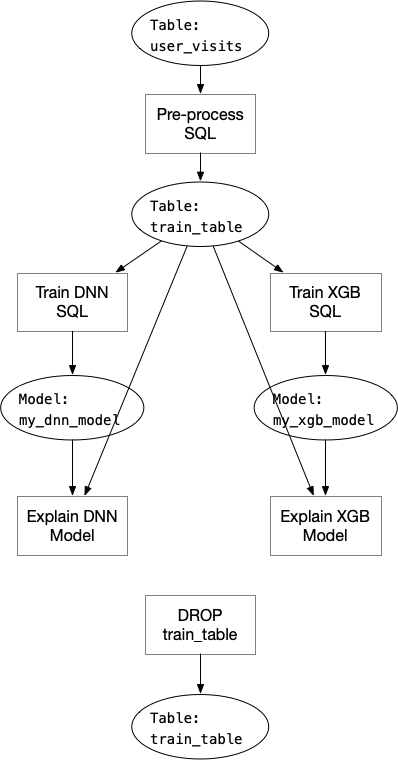
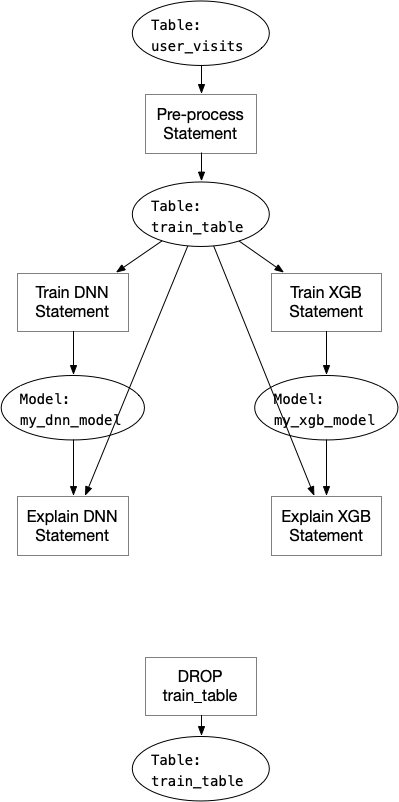
update by comment

diff --git a/doc/design/sql_program_dependency_analyze.md b/doc/design/sql_program_dependency_analyze.md
@@ -74,9 +74,31 @@ We can do this by following below steps:
 4. Execute this graph by submitting the graph as an Argo/Tekton workflow, each step is one single
    statement.
 
+## Analyze SQL Statement Input and Output Tables
+
+To analyze the input and output tables for each statement, we call the external parsers (Hive,
+Calcite, MySQL) to get the AST (https://en.wikipedia.org/wiki/Abstract_syntax_tree), for statements
+that have SQLFlow extended syntax like `TO TRAIN`, we'll analyze the standard SQL statement part in
+the external parsers and then analyze the model read and write using the SQLFlow extended parser.
+
+When going through the SQL statement, we should identify table read or write following below rules:
+
+- table reads:
+   1. `SELECT <hints> FROM <table_name>`: reads table `<table_name>`.
+   1. `SELECT <hints> FROM <table_name> <AS> <table_alias>`: reads table `<table_name>`.
+   1. `SELECT ... LEFT JOIN <table_name>`: reads `<table_name>`. Same as `INNER JOIN`, `RIGHT JOIN`,
+      `FULL JOIN`, `SELF JOIN`, `UNION`.
+- table writes:
+   1. `CREATE TABLE <table_name> AS <SELECT Query>`: writes table `<table_name>`.
+   1. `INSERT INTO <table_name> ...`: writes table `<table_name>`.
+   1. `UPDATE <table_name> ...`: writes table `<table_name>`.
+   1. `DELETE FROM <table_name> ...`, `TRUNCATE ...`: writes `<table_name>`.
+   1. `ALTER TABLE <table_name>`: writes `<table_name>`.
+
+
 ## Analyzing Database Context
 
-Some SQL program have `USE` clause which defines the database the following SQL statements are using.
+Some SQL program has `USE` clause which defines the database the following SQL statements are using.
 
 ```SQL
 USE db;
@@ -87,7 +109,11 @@ SELECT * FROM my_table_in_db2 TO TRAIN ...
 ```
 
 We need to go over the SQL program and get the last `USE` for each SQL statement, and modify the table
-name with out prefix `db.` to `db.table` for later dependency analyzing.
+name without prefix `db.` to `db.table` in above step after we get the input/output tables for each
+statement, so that we return the table read/write information with table full name `db.table`.
+
+Note that external parsers do not support `USE` statement, we can do this simply by split the SQL
+program by `;` and using regex to match if the statement is like `USE db_identifier`.
 
 ## Hazard
 
@@ -97,7 +123,6 @@ Analyzing computer programs always have hazards: https://en.wikipedia.org/wiki/H
 <p align="center">
 <img src="figures/hazard.png">
 </p>
-
 
 Note that the last "DROP TABLE" statement must execute after the two "Explain" statements, because
 the table is used by the explain statements before it could be changed (in this case, deleted). This
@@ -114,18 +139,23 @@ this situation.
 ## Implementation
 
 In order to construct the dependency graph of the SQL program, we need to analyze the parsed SQL
-statements in every parser, including MySQL parser, Hive parser, calcite parser and SQLFlow extended
+statements in every parser, including MySQL parser, Hive parser, calcite parser, and SQLFlow extended
 parser. Since the Hive parser and calcite parser is written in Java, we need to pass the table read/write
 information from Java to Go:
 
 ```proto
+// InputOutputTables represents input and output tables a statement manipulates.
+message InputOutputTables {
+   repeated string input_tables = 1;
+   repeated string output_tables = 2;
+}
+
 message ParserResponse {
   repeated string sql_statements = 1;
   int32 index = 2;
   string error = 3;
-  // return tables that a statement manipulate.
-  repeated string input_tables = 4;
-  repeated string output_tables = 5;
+  // return tables that each statement manipulates.
+  repeated InputOutputTables input_output_tables = 4;
 }
 ```
 
@@ -134,17 +164,29 @@ SQL statement, then parse the extended SQL to get model read/write information, 
 graph:
 
 ```go
-type Node struct {
-   NodeType int // 0: statement, 1: table/model
-   Statement string
-   TableName string // can be table name or model name.
-   Image string // Docker image used to run the statement
-   Outputs *[]Node
-   Inputs *[]Node
+type SQLProgramNode interface {
+   IsStatementNode() bool
+   GetInputs() *[]Node
+   GetOutputs() *[]Node
 }
 
-type Graph struct {
-   Nodes []*Node
+type StatementNode struct {
+   Statement string
+   DockerImage string
+   // StatementNode's input/output must be a table.
+   Inputs *[]TableNode
+   Outputs *[]TableNode
+}
+
+type TableNode struct {
+  Name string
+  // TableNode's input/output must be a statement.
+  Inputs *[]StatementNode
+  Outputs *[]StatementNode
+}
+
+type SQLProgramGraph struct {
+  Nodes *[]SQLProgramNode
 }
 ```
 
